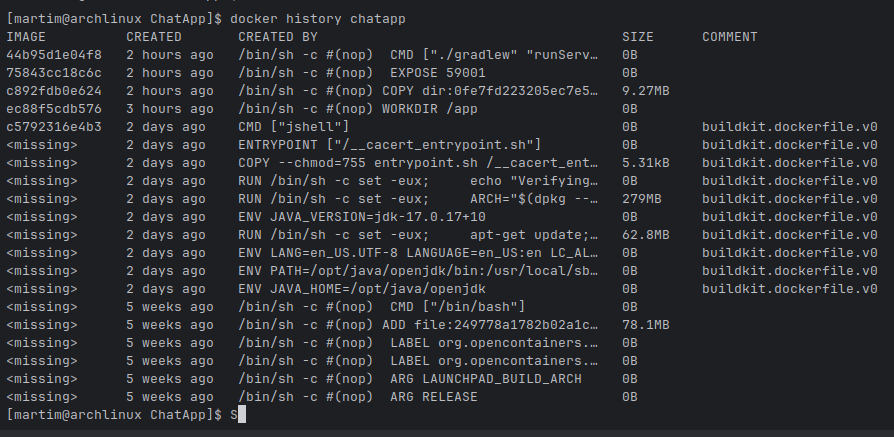
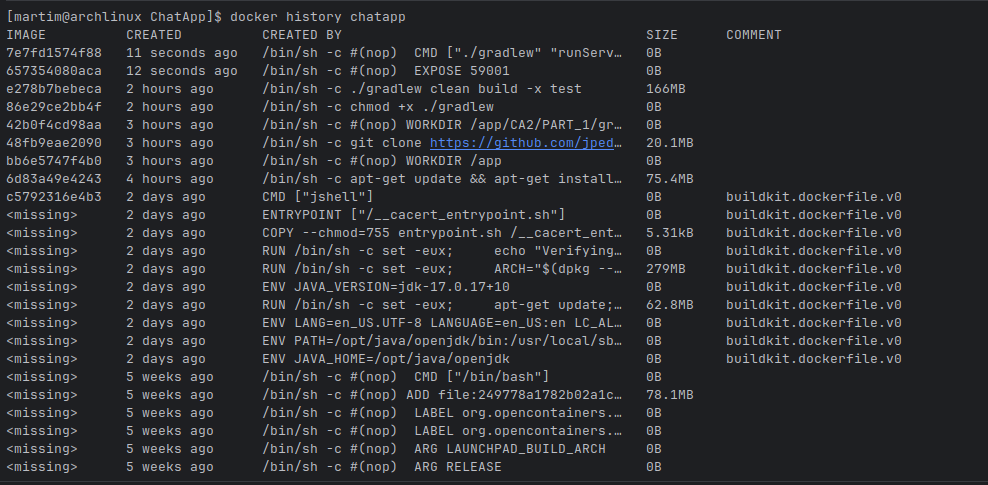
Update with docker hsitory and multistaged enviorment

Changed region(s): [[0.0, 0.0, 0.9966, 0.9817]]

diff --git a/CA5/DOCKER/PART_1/README.md b/CA5/DOCKER/PART_1/README.md
@@ -14,44 +14,11 @@ It has two versions of the Dockerfile for the Chatter Application.
 - Version 2: Build the server on the host machine and copy the resulting JAR file into the Docker image.
 
 It was created two diferent Dockerfiles, the v1.Dockerfile:
-
 ```Dockerfile
-
-FROM eclipse-temurin:17-jdk AS builder
-
-RUN apt-get update && apt-get install -y git && rm -rf /var/lib/apt/lists/*
-
-WORKDIR /app
-
-RUN git clone https://github.com/jpedroal11/cogsi2425-1211066-1250515-1181754-1220638.git .
-
-WORKDIR /app/CA2/PART_1/gradle_basic_demo-main
-
-RUN chmod +x ./gradlew
-
-RUN ./gradlew clean build -x test
-
-FROM eclipse-temurin:17-jdk
-
-WORKDIR /app
-
-COPY --from=builder /app/CA2/PART_1/gradle_basic_demo-main /app
-
-EXPOSE 59001
-
-CMD ["./gradlew", "runServer"]
 ```
 
-In here it is created a multi-stage build Dockerfile:
-
-- In the first stage, it uses the Eclipse Temurin JDK 17 image as the base image and installs Git. 
-- It then clones the repository containing the Gradle chat application, navigates to the appropriate directory, makes the Gradle wrapper executable, and builds the application while skipping tests.
-- In the second stage, it again uses the Eclipse Temurin JDK 17 image as the base image, sets the working directory, copies the built application from the first stage, exposes port 59001, and sets the default command to run the server using the Gradle wrapper.
-
-Then it is runned the folwing command to build the Docker image:
-
 ```bash
-docker build -t chatter-app:latest -f v1.v1.Dockerfile .
+docker build -t chatter-app:latest -f v1.v1.multistage.Dockerfile .
 ```
 The -t flag tags the image with the name chatter-app:latest, and the -f flag specifies the Dockerfile to use for the build.
 
@@ -89,7 +56,7 @@ TO generate the JAR file.
 
 Then it was builded the Docker image using the following command:
 ```bash
-docker build -f v2.v1.Dockerfile -t chatapp-server-v2 .
+docker build -f v2.v1.multistage.Dockerfile -t chatapp-server-v2 .
 ```
 In here, the -f flag specifies the Dockerfile to use (v2.Dockerfile), and the -t flag tags the image with the name chatapp-server-v2.
 
@@ -111,29 +78,39 @@ docker history <image_id>
 
 This command displays the history of an image, showing the layers that make up the image along with their sizes and creation times.
 
-### Docker Layers: `chatapp`
 
-| Layer        | Created     | Created By                     | Size   | Notes                                                                      |
-|--------------|-------------|--------------------------------|--------|----------------------------------------------------------------------------|
-| 44b95d1e04f8 | 2 hours ago | CMD ["./gradlew", "runServer"] | 0B     | Runs your server inside the container.                                     |
-| c892fdb0e624 | 2 hours ago | COPY dir:…                     | 9.27MB | Copies the Gradle project (source + wrapper + configs) into the container. |
-| <missing>    | 2 days ago  | RUN … JDK installation         | 279MB  | Installs Java JDK in the base image.                                       |
-| <missing>    | 2 days ago  | RUN … OS package installation  | 62.8MB | Installs OS dependencies like ca-certificates.                             |
-| <missing>    | 5 weeks ago | ADD … Base OS filesystem       | 78.1MB | Base OS layer (Debian/Ubuntu).                                             |
 
-### Docker Image Size Analysis
+### Significant Docker Layers: `chatapp`
 
-- **Dockerfile contribution:** ~9.3 MB
-    - Mostly the source code and Gradle wrapper
-- **Base image contribution:** ~420 MB
-    - Includes Java JDK (~279 MB)
-    - OS packages (~63 MB)
-    - Operating system (~78 MB)
+| Layer | Created | Size | Notes |
+|-------|---------|------|-------|
+| ./gradlew clean build -x test | 2 hours ago | 166MB | Builds the project inside the container |
+| git clone ... | 3 hours ago | 20.1MB | Adds source code from the repository |
+| apt-get install ... | 4 hours ago | 75.4MB | Installs Git and OS dependencies |
+| Java JDK | 2 days ago | 279MB | Base JDK installation |
+| Base OS | 5 weeks ago | 78.1MB | Operating system filesystem |
+| CMD ["./gradlew", "runServer"] | 11 seconds ago | 0B | Runs the server inside the container |
+| EXPOSE 59001 | 12 seconds ago | 0B | Metadata layer for the server port |
+
+
+### Docker Image Analysis: `chatapp`
+
+- **Largest contributions to image size:**
+  - **Java JDK (~279 MB):** Base JDK installation is the single largest layer.
+  - **Project build (~166 MB):** Running `./gradlew clean build` inside the container adds compiled classes, dependencies, and Gradle cache.
+  - **Base OS (~78 MB) and OS packages (~75 MB):** Essential packages and the operating system add significant weight.
+
+- **Minor contributions:**
+  - **Git clone (~20 MB):** Adds source code.
+  - **CMD and EXPOSE layers:** Metadata only (0B).
+
 - **Key insight:**
-    - Most of the image size comes from the base image
-    - The application itself adds very little
-    - Keeping Dockerfile layers small (like Version 2 with only the JAR) results in a lighter, more efficient image
+  - Most of the image size comes from the **base image (JDK + OS)** rather than the application itself.
+  - Building the project inside the container (single-stage) adds a large layer (~166 MB).
+  - Using a **multi-stage build** would reduce image size by including only the JAR and JDK, leaving out Gradle, Git, and source code.
 
+
+![img.png](img/docker_history_chat_v1.png)
 
 ### Docker Layers: `chatapp-server-v2`
 
@@ -166,3 +143,105 @@ This command displays the history of an image, showing the layers that make up t
 By the comparison of the two images, it is possible to see that the second approach (building the JAR on the host and copying it into the image) results in a smaller and more efficient Docker image. This is because it avoids the overhead of installing build tools and dependencies inside the container, leading to a leaner final image.
 
 
+## Multistage Builds
+
+The v1.Dockerfile:
+
+```Dockerfile
+
+FROM eclipse-temurin:17-jdk AS builder
+
+RUN apt-get update && apt-get install -y git && rm -rf /var/lib/apt/lists/*
+
+WORKDIR /app
+
+RUN git clone https://github.com/jpedroal11/cogsi2425-1211066-1250515-1181754-1220638.git .
+
+WORKDIR /app/CA2/PART_1/gradle_basic_demo-main
+
+RUN chmod +x ./gradlew
+
+RUN ./gradlew clean build -x test
+
+FROM eclipse-temurin:17-jdk
+
+WORKDIR /app
+
+COPY --from=builder /app/CA2/PART_1/gradle_basic_demo-main /app
+
+EXPOSE 59001
+
+CMD ["./gradlew", "runServer"]
+```
+
+In here it is created a multi-stage build Dockerfile:
+
+- In the first stage, it uses the Eclipse Temurin JDK 17 image as the base image and installs Git.
+- It then clones the repository containing the Gradle chat application, navigates to the appropriate directory, makes the Gradle wrapper executable, and builds the application while skipping tests.
+- In the second stage, it again uses the Eclipse Temurin JDK 17 image as the base image, sets the working directory, copies the built application from the first stage, exposes port 59001, and sets the default command to run the server using the Gradle wrapper.
+
+
+### Docker Layers: `chatapp`
+
+| Layer        | Created     | Created By                     | Size   | Notes                                                                      |
+|--------------|-------------|--------------------------------|--------|----------------------------------------------------------------------------|
+| 44b95d1e04f8 | 2 hours ago | CMD ["./gradlew", "runServer"] | 0B     | Runs your server inside the container.                                     |
+| c892fdb0e624 | 2 hours ago | COPY dir:…                     | 9.27MB | Copies the Gradle project (source + wrapper + configs) into the container. |
+| <missing>    | 2 days ago  | RUN … JDK installation         | 279MB  | Installs Java JDK in the base image.                                       |
+| <missing>    | 2 days ago  | RUN … OS package installation  | 62.8MB | Installs OS dependencies like ca-certificates.                             |
+| <missing>    | 5 weeks ago | ADD … Base OS filesystem       | 78.1MB | Base OS layer (Debian/Ubuntu).                                             |
+
+### Docker Image Size Analysis
+
+- **Dockerfile contribution:** ~9.3 MB
+  - Mostly the source code and Gradle wrapper
+- **Base image contribution:** ~420 MB
+  - Includes Java JDK (~279 MB)
+  - OS packages (~63 MB)
+  - Operating system (~78 MB)
+- **Key insight:**
+  - Most of the image size comes from the base image
+  - The application itself adds very little
+  - Keeping Dockerfile layers small (like Version 2 with only the JAR) results in a lighter, more efficient image
+
+    ![img.png](img/docker_history_multistage_chat_v1.png)
+
+
+### Docker Layers: `chatapp-server-v2`
+
+
+### Significant Docker Layers: `
+
+| Layer | Created | Size | Notes |
+|-------|---------|------|-------|
+| COPY JAR | 48 seconds ago | 1.88MB | Copies the built JAR from the builder stage |
+| Java JDK | 2 days ago | 279MB | Base JDK installation |
+| apt-get install ... | 2 days ago | 62.8MB | OS packages and dependencies |
+| Base OS | 5 weeks ago | 78.1MB | Operating system filesystem |
+| CMD ["java", "-cp", "app.jar", ...] | 47 seconds ago | 0B | Runs the server from the JAR |
+| EXPOSE 59001 | 48 seconds ago | 0B | Metadata layer for server port |
+
+
+
+### Docker Image Analysis: 
+
+- **Largest contributors to image size:**
+  - **Java JDK (~279 MB):** Base Java installation.
+  - **OS packages (~62.8 MB) and Base OS (~78.1 MB):** Required system libraries.
+
+- **Application contribution:**
+  - **JAR file (~1.88 MB):** Your built application is very small compared to the base image.
+
+- **Minor layers:**
+  - CMD and EXPOSE layers are metadata (0B), no impact on size.
+
+- **Key insight:**
+  - Multi-stage build significantly reduces image size by copying **only the JAR** into the runtime image.
+  - Most of the image size comes from the base image, not your project.
+
+- **Efficiency:**
+  - Multi-stage builds make the runtime image **smaller and cleaner**, improving deployment speed.
+  - Single-stage builds that include the build environment (Gradle, source code) produce **heavier images**.
+    
+
+![img.png](img/docker_history_multistage_chat_v2.png)
